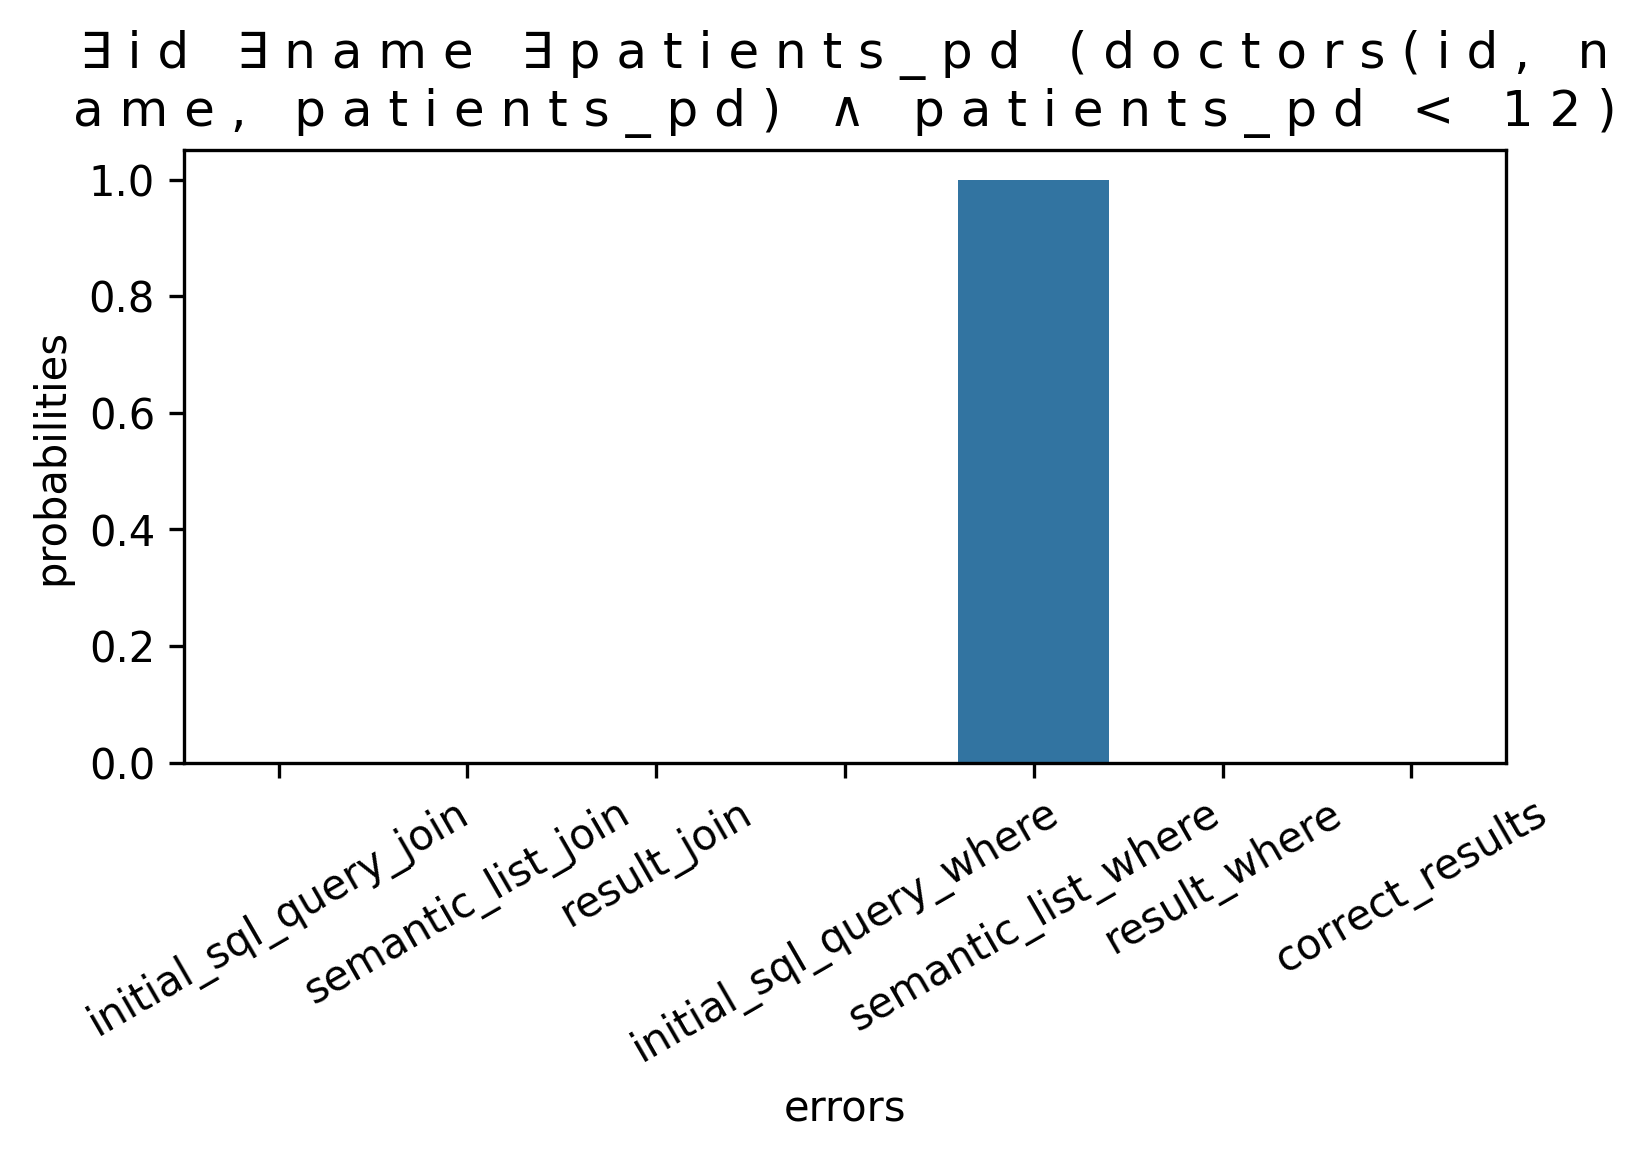
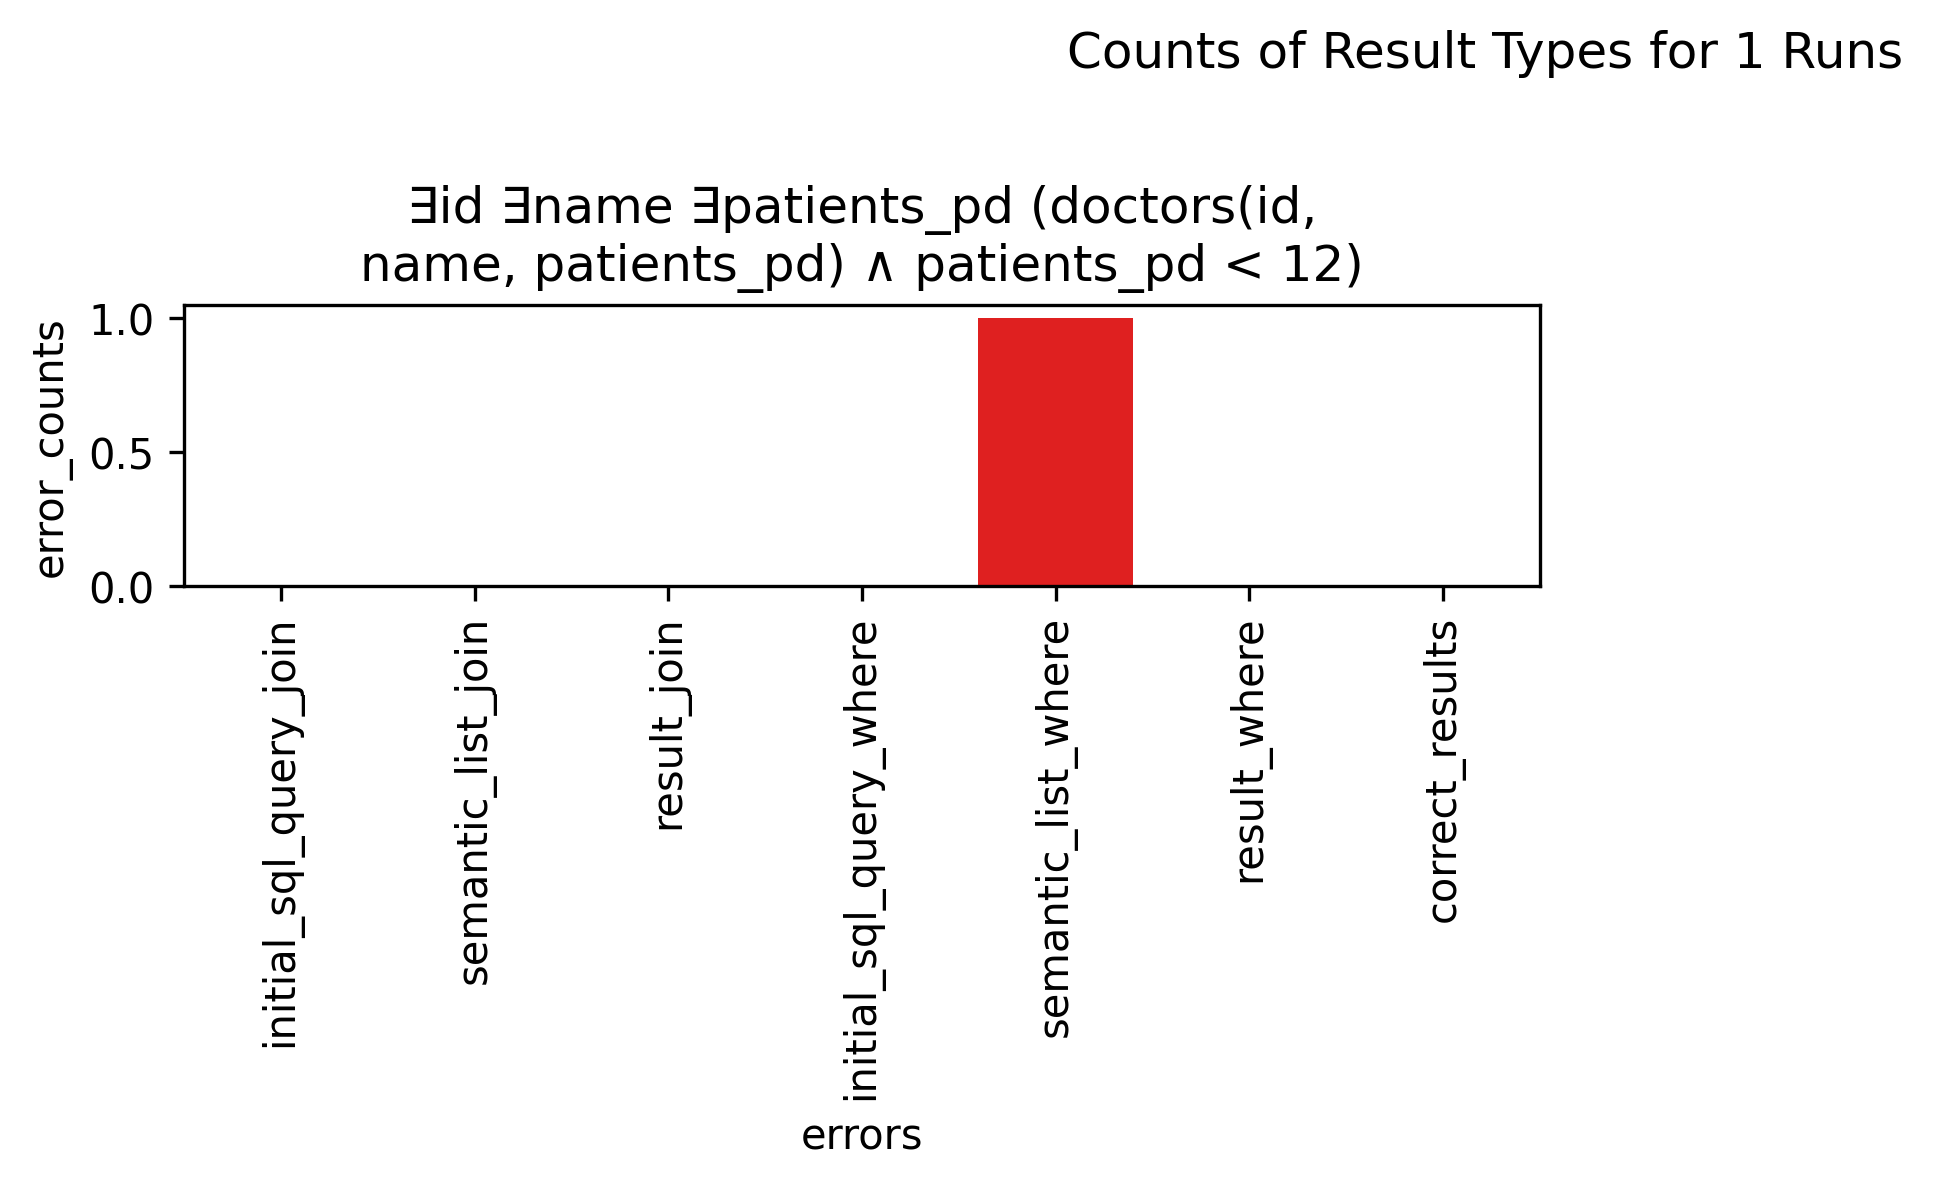
Test Evaluation Progress

diff --git a/test_evaluation.py b/test_evaluation.py
@@ -14,9 +14,11 @@ from collections import Counter
 import matplotlib.pyplot as plt
 import numpy as np
 from combined_pipeline import combined_pipeline
-from evaluation import test_cases
+from evaluation import test_cases, evaluate_results
 import seaborn as sns
 import pandas as pd
+import re
+from matplotlib import ticker
 
 
 RUNS=1
@@ -39,6 +41,34 @@ usage_metadata_total = {
             "total_calls": 0
         }
 
+import re
+
+def split_title_at_space(title):
+    """Splits a title at the closest space to the midpoint."""
+    if not title or len(title) <= 1:
+        return title, ""  # Handles empty or single-word titles
+
+    midpoint = len(title) // 2
+    
+    # Find the closest space to the midpoint (using regex for robustness)
+    
+    closest_space_index = None
+    min_distance = float('inf')
+    list=re.finditer(r"\s", title)
+    for match in list:
+        index = match.start()
+        distance = abs(index - midpoint)
+        if distance < min_distance:
+            min_distance = distance
+            closest_space_index = index
+            
+    if closest_space_index is not None:
+      title_part1 = title[:closest_space_index].strip()
+      title_part2 = title[closest_space_index:].strip()
+      return title_part1, title_part2
+    else:
+      return title, ""
+    
 def initial_query_transform(initial_query):
 
     if not initial_query:
@@ -206,6 +236,7 @@ def evaluation_pipeline(queries):
 
     #Create a list of dictionaries to also save the data, in order to replot it etc.
     dic_list=[]
+    colors = ['red', 'red', 'red', 'red', 'red', 'red', 'blue'] # Define colors for the bars
 
     for i, error_cnt in enumerate(error_total):
         error_spots = list(error_cnt.keys())
@@ -216,11 +247,7 @@ def evaluation_pipeline(queries):
         else:
             probs = [0] * len(queries) #All probabilities are 0 if total_counts is 0
 
-        # Split the title into two lines at the midpoint
-        title_parts = queries_list[i]
-        midpoint = len(title_parts) // 2  # Integer division for midpoint
-        title_part1 = " ".join(title_parts[:midpoint])
-        title_part2 = " ".join(title_parts[midpoint:])
+        title_part1, title_part2 = split_title_at_space(queries_list[i])
 
         #Create dictionary and append data
         tmp_dic={
@@ -235,10 +262,9 @@ def evaluation_pipeline(queries):
         # axes[i].set_ylabel("Probability")
         # axes[i].set_title(f"{title_part1}\n{title_part2}")
         # axes[i].tick_params(axis='x', rotation=45, labelrotation=90)
-        sns.barplot(x='errors', y='probabilities', data=tmp_dic, ax=axes[i],).set_title(f"{title_part1}\n{title_part2}")
-
-        
-
+        sns.barplot(x='errors', y='error_counts', data=tmp_dic, ax=axes[i], palette=colors).set_title(f"{title_part1}\n{title_part2}")
+        axes[i].tick_params(axis='x', rotation=90)
+        #Append to dictionary list
         dic_list.append(tmp_dic)
 
 
@@ -246,8 +272,10 @@ def evaluation_pipeline(queries):
     for j in range(i + 1, len(axes)):
         fig.delaxes(axes[j])
 
-    plt.xticks(rotation=30)
+    #Individual plot
     plt.tight_layout()
+    plt.suptitle(f"Counts of Result Types for {RUNS} Runs")
+    plt.subplots_adjust(top=0.75)
     fig.savefig(filepath_individual_plot, dpi=300, bbox_inches='tight')  # Save the figure with higher resolution
 
     plt.show()
@@ -273,7 +301,8 @@ def evaluation_pipeline(queries):
     #Create total dictionary
     total_dic={
             "categories" : list(categories),
-            "probabilities" : list(probs)
+            "probabilities" : list(probs),
+            "total_counts" : list(total_counts_per_category)
         }
     
     #Save the two dictionaires
@@ -282,7 +311,7 @@ def evaluation_pipeline(queries):
     with open(path_total_dic, 'w', encoding='utf-8') as f:
         json.dump(total_dic, f, indent=4, ensure_ascii=False)
 
-    sns.barplot(x='categories', y='probabilities', data=total_dic, ax=ax_total,).set_title(f"Total Probabilities of Result Types'")
+    sns.barplot(x='categories', y='total_counts', data=total_dic, ax=ax_total, palette=colors).set_title(f"Total Probabilities of Result Types")
     plt.xticks(rotation=30)
     plt.tight_layout()
     fig_total.savefig(filepath_total_fig, dpi=300, bbox_inches='tight')  # Save the figure with higher resolution
@@ -291,7 +320,6 @@ def evaluation_pipeline(queries):
 
 #Only get predicate calculus expressions
 queries=[i for i, _ in test_cases]
-#queries=[queries[0], queries[1], queries[2], queries[3]]
 queries=[queries[0]]
 
 evaluation_pipeline(queries)

diff --git a/Testset.md b/Testset.md
@@ -3,6 +3,8 @@ try to cover different types of semantic missmatches like different formats, dif
 numbers written as text and so on.
 
 
+
+
 # Shareowner and Animalowner examples
 
 
